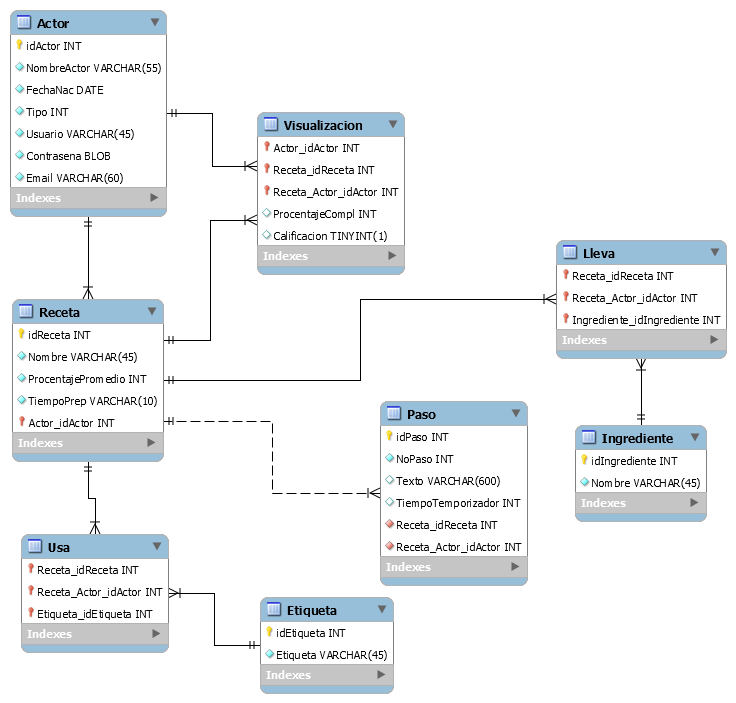
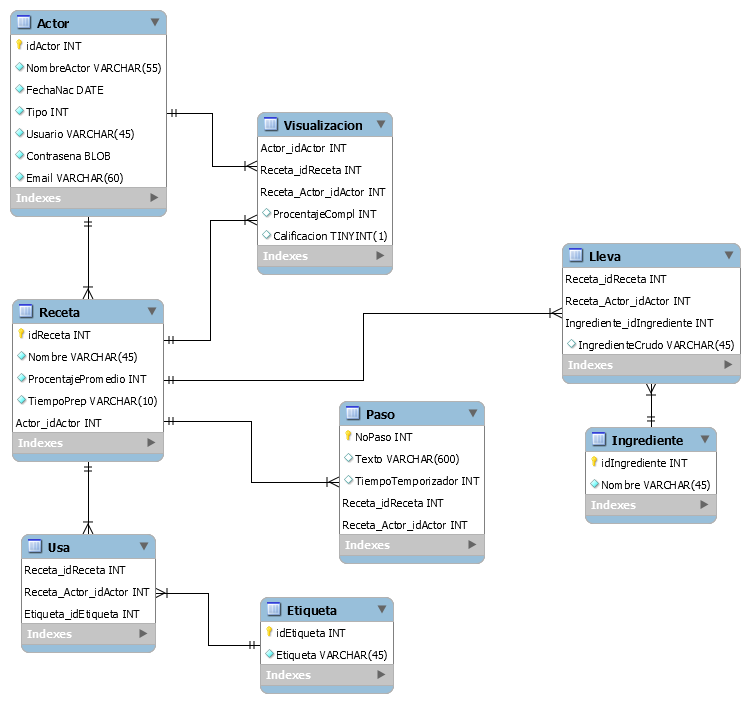
Se pueden Editar los pasos de las recetas. Navegaciones. Cambio en la BD, Paso ahora es entidad débil

diff --git a/wwwroot/js/Recetas.js b/wwwroot/js/Recetas.js
@@ -1,13 +1,14 @@
-var p = 0;
+
 
 function AgregarPaso() {
-    //alert('Valor de paso' + p);
+    //alert("actualizado");
     var paso = p;
     p++;
     //Traer el div de pasos
     var divPasos = document.getElementById("pasos")
     //Crear el div que tiene un paso
     var div = document.createElement("div");
+    div.id = 'paso_'+paso;
     //Dar clase a el div
     div.className = "form - group";
     //Crear los inputs
@@ -35,11 +36,38 @@ function AgregarPaso() {
     inTiempo.defaultValue = "";
     inTiempo.name = "Pasos[" + paso + "].TiempoTemporizador";
 
+    var btnQuitar = document.createElement("button");
+    btnQuitar.type = "button";
+    //Agregamos la función del eliminar el propio div
+    btnQuitar.onclick = function eliminarElemento() {
+        elem = document.getElementById('paso_' + paso);
+        if (!elem) {
+            alert("El paso no existe");
+        } else {
+            padre = elem.parentNode;
+            padre.removeChild(elem);
+        }
+    }
+    btnQuitar.innerHTML = "-";
+
     //Agregamos los elementos al div
     div.appendChild(lb);
     div.appendChild(inNoPaso);
     div.appendChild(inTexto);
     div.appendChild(inTiempo);
+    div.appendChild(btnQuitar);
     //Agregamos el div al div de los pasos
     divPasos.appendChild(div);
+}
+
+//No sé por que no funciona si lo llamo al momento de crear botones jajajaja
+//Pero lo necesito aquí afuera para llamarlo al editar los pasos
+function QuitarElemento(id) {
+    elem = document.getElementById(id);
+    if (!elem) {
+        alert("El paso no existe"+id);
+    } else {
+        padre = elem.parentNode;
+        padre.removeChild(elem);
+    }
 }

diff --git a/Migrations/20201128051407_CambioPaso.cs b/Migrations/20201128051407_CambioPaso.cs
@@ -4,7 +4,7 @@ using Microsoft.EntityFrameworkCore.Migrations;
 
 namespace Recetario.Migrations
 {
-    public partial class Paso : Migration
+    public partial class CambioPaso : Migration
     {
         protected override void Up(MigrationBuilder migrationBuilder)
         {
@@ -238,32 +238,30 @@ namespace Recetario.Migrations
                         columns: x => new { x.Receta_idReceta, x.Receta_Actor_idActor },
                         principalTable: "receta",
                         principalColumns: new[] { "idReceta", "Actor_idActor" },
-                        onDelete: ReferentialAction.Restrict);
+                        onDelete: ReferentialAction.Cascade);
                 });
 
             migrationBuilder.CreateTable(
                 name: "paso",
                 columns: table => new
                 {
-                    IdPaso = table.Column<int>(type: "int(11)", nullable: false)
-                        .Annotation("MySql:ValueGenerationStrategy", MySqlValueGenerationStrategy.IdentityColumn),
                     NoPaso = table.Column<int>(type: "int(11)", nullable: false),
+                    Receta_idReceta = table.Column<int>(type: "int(11)", nullable: false),
+                    Receta_Actor_idActor = table.Column<int>(type: "int(11)", nullable: false),
                     Texto = table.Column<string>(type: "varchar(600)", nullable: true)
                         .Annotation("MySql:CharSet", "utf8")
                         .Annotation("MySql:Collation", "utf8_general_ci"),
-                    TiempoTemporizador = table.Column<int>(type: "int(11)", nullable: true),
-                    Receta_idReceta = table.Column<int>(type: "int(11)", nullable: false),
-                    Receta_Actor_idActor = table.Column<int>(type: "int(11)", nullable: false)
+                    TiempoTemporizador = table.Column<int>(type: "int(11)", nullable: true)
                 },
                 constraints: table =>
                 {
-                    table.PrimaryKey("PRIMARY", x => x.IdPaso);
+                    table.PrimaryKey("PRIMARY", x => new { x.NoPaso, x.Receta_idReceta, x.Receta_Actor_idActor });
                     table.ForeignKey(
                         name: "fk_Paso_Receta1",
                         columns: x => new { x.Receta_idReceta, x.Receta_Actor_idActor },
                         principalTable: "receta",
                         principalColumns: new[] { "idReceta", "Actor_idActor" },
-                        onDelete: ReferentialAction.Restrict);
+                        onDelete: ReferentialAction.Cascade);
                 });
 
             migrationBuilder.CreateTable(
@@ -288,7 +286,7 @@ namespace Recetario.Migrations
                         columns: x => new { x.Receta_idReceta, x.Receta_Actor_idActor },
                         principalTable: "receta",
                         principalColumns: new[] { "idReceta", "Actor_idActor" },
-                        onDelete: ReferentialAction.Restrict);
+                        onDelete: ReferentialAction.Cascade);
                 });
 
             migrationBuilder.CreateTable(
@@ -315,7 +313,7 @@ namespace Recetario.Migrations
                         columns: x => new { x.Receta_idReceta, x.Receta_Actor_idActor },
                         principalTable: "receta",
                         principalColumns: new[] { "idReceta", "Actor_idActor" },
-                        onDelete: ReferentialAction.Restrict);
+                        onDelete: ReferentialAction.Cascade);
                 });
 
             migrationBuilder.CreateIndex(

diff --git a/Migrations/20201128051407_CambioPaso.Designer.cs b/Migrations/20201128051407_CambioPaso.Designer.cs
@@ -9,8 +9,8 @@ using Recetario.BaseDatos;
 namespace Recetario.Migrations
 {
     [DbContext(typeof(ContextoBD))]
-    [Migration("20201109005253_Paso")]
-    partial class Paso
+    [Migration("20201128051407_CambioPaso")]
+    partial class CambioPaso
     {
         protected override void BuildTargetModel(ModelBuilder modelBuilder)
         {
@@ -291,19 +291,15 @@ namespace Recetario.Migrations
 
             modelBuilder.Entity("Recetario.BaseDatos.Paso", b =>
                 {
-                    b.Property<int>("IdPaso")
-                        .ValueGeneratedOnAdd()
-                        .HasColumnType("int(11)");
-
                     b.Property<int>("NoPaso")
-                        .HasColumnType("int(11)");
-
-                    b.Property<int>("RecetaActorIdActor")
-                        .HasColumnName("Receta_Actor_idActor")
                         .HasColumnType("int(11)");
 
                     b.Property<int>("RecetaIdReceta")
                         .HasColumnName("Receta_idReceta")
+                        .HasColumnType("int(11)");
+
+                    b.Property<int>("RecetaActorIdActor")
+                        .HasColumnName("Receta_Actor_idActor")
                         .HasColumnType("int(11)");
 
                     b.Property<string>("Texto")
@@ -314,7 +310,7 @@ namespace Recetario.Migrations
                     b.Property<int?>("TiempoTemporizador")
                         .HasColumnType("int(11)");
 
-                    b.HasKey("IdPaso")
+                    b.HasKey("NoPaso", "RecetaIdReceta", "RecetaActorIdActor")
                         .HasName("PRIMARY");
 
                     b.HasIndex("RecetaIdReceta", "RecetaActorIdActor")
@@ -479,6 +475,7 @@ namespace Recetario.Migrations
                         .WithMany("Lleva")
                         .HasForeignKey("RecetaIdReceta", "RecetaActorIdActor")
                         .HasConstraintName("fk_Receta_has_Ingrediente_Receta1")
+                        .OnDelete(DeleteBehavior.Cascade)
                         .IsRequired();
                 });
 
@@ -488,6 +485,7 @@ namespace Recetario.Migrations
                         .WithMany("Paso")
                         .HasForeignKey("RecetaIdReceta", "RecetaActorIdActor")
                         .HasConstraintName("fk_Paso_Receta1")
+                        .OnDelete(DeleteBehavior.Cascade)
                         .IsRequired();
                 });
 
@@ -512,6 +510,7 @@ namespace Recetario.Migrations
                         .WithMany("Usa")
                         .HasForeignKey("RecetaIdReceta", "RecetaActorIdActor")
                         .HasConstraintName("fk_Receta_has_Etiqueta_Receta1")
+                        .OnDelete(DeleteBehavior.Cascade)
                         .IsRequired();
                 });
 
@@ -527,6 +526,7 @@ namespace Recetario.Migrations
                         .WithMany("Visualizacion")
                         .HasForeignKey("RecetaIdReceta", "RecetaActorIdActor")
                         .HasConstraintName("fk_Actor_has_Receta_Receta1")
+                        .OnDelete(DeleteBehavior.Cascade)
                         .IsRequired();
                 });
 #pragma warning restore 612, 618

diff --git a/Migrations/ContextoBDModelSnapshot.cs b/Migrations/ContextoBDModelSnapshot.cs
@@ -289,19 +289,15 @@ namespace Recetario.Migrations
 
             modelBuilder.Entity("Recetario.BaseDatos.Paso", b =>
                 {
-                    b.Property<int>("IdPaso")
-                        .ValueGeneratedOnAdd()
-                        .HasColumnType("int(11)");
-
                     b.Property<int>("NoPaso")
-                        .HasColumnType("int(11)");
-
-                    b.Property<int>("RecetaActorIdActor")
-                        .HasColumnName("Receta_Actor_idActor")
                         .HasColumnType("int(11)");
 
                     b.Property<int>("RecetaIdReceta")
                         .HasColumnName("Receta_idReceta")
+                        .HasColumnType("int(11)");
+
+                    b.Property<int>("RecetaActorIdActor")
+                        .HasColumnName("Receta_Actor_idActor")
                         .HasColumnType("int(11)");
 
                     b.Property<string>("Texto")
@@ -312,7 +308,7 @@ namespace Recetario.Migrations
                     b.Property<int?>("TiempoTemporizador")
                         .HasColumnType("int(11)");
 
-                    b.HasKey("IdPaso")
+                    b.HasKey("NoPaso", "RecetaIdReceta", "RecetaActorIdActor")
                         .HasName("PRIMARY");
 
                     b.HasIndex("RecetaIdReceta", "RecetaActorIdActor")
@@ -477,6 +473,7 @@ namespace Recetario.Migrations
                         .WithMany("Lleva")
                         .HasForeignKey("RecetaIdReceta", "RecetaActorIdActor")
                         .HasConstraintName("fk_Receta_has_Ingrediente_Receta1")
+                        .OnDelete(DeleteBehavior.Cascade)
                         .IsRequired();
                 });
 
@@ -486,6 +483,7 @@ namespace Recetario.Migrations
                         .WithMany("Paso")
                         .HasForeignKey("RecetaIdReceta", "RecetaActorIdActor")
                         .HasConstraintName("fk_Paso_Receta1")
+                        .OnDelete(DeleteBehavior.Cascade)
                         .IsRequired();
                 });
 
@@ -510,6 +508,7 @@ namespace Recetario.Migrations
                         .WithMany("Usa")
                         .HasForeignKey("RecetaIdReceta", "RecetaActorIdActor")
                         .HasConstraintName("fk_Receta_has_Etiqueta_Receta1")
+                        .OnDelete(DeleteBehavior.Cascade)
                         .IsRequired();
                 });
 
@@ -525,6 +524,7 @@ namespace Recetario.Migrations
                         .WithMany("Visualizacion")
                         .HasForeignKey("RecetaIdReceta", "RecetaActorIdActor")
                         .HasConstraintName("fk_Actor_has_Receta_Receta1")
+                        .OnDelete(DeleteBehavior.Cascade)
                         .IsRequired();
                 });
 #pragma warning restore 612, 618

diff --git a/Areas/Usuarios/Controllers/RecetasController.cs b/Areas/Usuarios/Controllers/RecetasController.cs
@@ -58,20 +58,23 @@ namespace Recetario.Areas.Usuarios
             return View(receta);
         }
 
-        public IActionResult Editar(int? id)
+        public async Task<IActionResult> Editar(int? id)
         {
             if (id == null)
             {
                 return NotFound();
             }
-
+            //Checar que este usuario sea el creador (Dios, obviamente)
+            //Obtener el actor logeado
+            var actor = await _userManager.GetUserAsync(User);
             var receta = _servicioreceta.Obtener((int)id);
-            if (receta == null)
+            //En caso de ser el mismo que la creó, dejar hacer lo que quiera con esta
+            if (actor.Id == receta.usuario.IdActor)
             {
-                return NotFound();
+                if (receta == null) return NotFound();
+                return View(receta);
             }
-            //ViewData["ActorIdActor"] = new SelectList(_context.Actor, "Id", "NombreActor", receta.ActorIdActor);
-            return View(receta);
+            else return NotFound();
         }
 
         [HttpPost]
@@ -82,7 +85,9 @@ namespace Recetario.Areas.Usuarios
             {
                 try
                 {
-                    _servicioreceta.Editar(receta);
+                    //Checar que sea el mismo usuario quien creó la receta
+                    if (receta.usuario.IdActor == _userManager.GetUserAsync(User).Result.Id) _servicioreceta.Editar(receta);
+                    else return NotFound();
                 }
                 //En caso de que no exista la receta
                 catch (NotImplementedException)

diff --git a/BaseDatos/ContextoBD.cs b/BaseDatos/ContextoBD.cs
@@ -136,17 +136,15 @@ namespace Recetario.BaseDatos
 
             modelBuilder.Entity<Paso>(entity =>
             {
-                entity.HasKey(e => e.IdPaso)
+                entity.HasKey(e => new {e.NoPaso, e.RecetaIdReceta, e.RecetaActorIdActor })
                     .HasName("PRIMARY");
 
                 entity.ToTable("paso");
 
+                entity.Property(e => e.NoPaso).HasColumnType("int(11)");
+
                 entity.HasIndex(e => new { e.RecetaIdReceta, e.RecetaActorIdActor })
                     .HasName("fk_Paso_Receta1_idx");
-
-                entity.Property(e => e.IdPaso).HasColumnType("int(11)");
-
-                entity.Property(e => e.NoPaso).HasColumnType("int(11)");
 
                 entity.Property(e => e.RecetaActorIdActor)
                     .HasColumnName("Receta_Actor_idActor")

diff --git a/Servicios/ServiciosReceta.cs b/Servicios/ServiciosReceta.cs
@@ -289,7 +289,6 @@ namespace Recetario.Areas.Administradores.Servicios
             receta.TiempoPrep = recetadto.TiempoPrep;
             receta.Paso = recetadto.Pasos.Select(p => new Paso
             {
-                IdPaso = p.IdPaso,
                 NoPaso = p.NoPaso,
                 Texto = p.Texto,
                 TiempoTemporizador = DeStringAMinutos(p.TiempoTemporizador)

diff --git a/Models/PasoDTO.cs b/Models/PasoDTO.cs
@@ -9,7 +9,6 @@ namespace Recetario.Models
     //TODO: Agregar requireds
     public class PasoDTO
     {
-        public int IdPaso { get; set; }
         public int NoPaso { get; set; }
         public string Texto { get; set; }
         //Después de va a convertir el tiempo en minutos al registrar en la BD

diff --git a/BaseDatos/Paso.cs b/BaseDatos/Paso.cs
@@ -5,7 +5,6 @@ namespace Recetario.BaseDatos
 {
     public partial class Paso
     {
-        public int IdPaso { get; set; }
         public int NoPaso { get; set; }
         public string Texto { get; set; }
         public int? TiempoTemporizador { get; set; }
